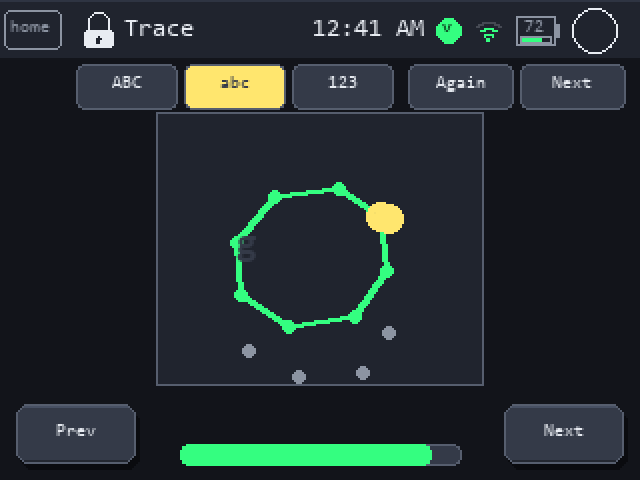
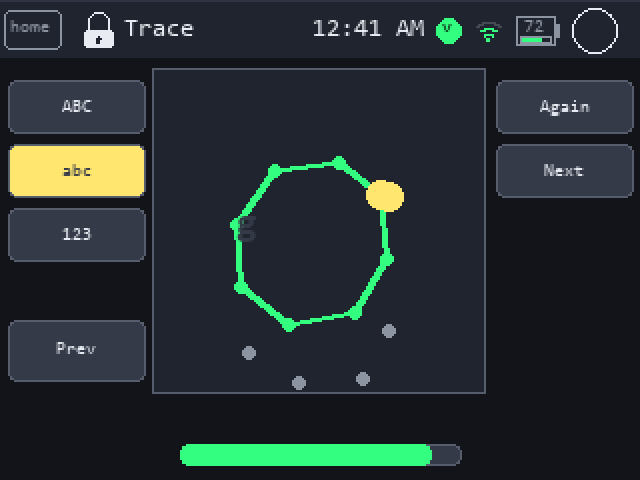
Regenerate the Trace mock-ups for the moved controls
gen_screens.py keeps its own copy of each screen's layout in Python, so
moving the buttons in TraceGame.cpp did not move them here -- the
generator ran happily and produced the same two images it always had, of
a screen that no longer exists. That is the failure CLAUDE.md calls worse
than a missing mock-up, and it is silent: nothing in the build or the
checkers notices.

Both Trace stills now show the side columns, and the canvas is drawn at
its real 164x160 rather than the old 160x132. The lowercase glyph art is
rescaled to the taller canvas with it -- the first pass moved only the
watermark, which left the 'g' sitting in the top two thirds of a box it
no longer filled.

The sparse dots down the descender are correct rather than unfinished:
the game draws an unclaimed stroke as faint waypoints, and only the
stroke being traced gets a line.

Both PNGs were looked at, which is the only way this kind of drift gets
caught.

diff --git a/tools/gen_screens.py b/tools/gen_screens.py
@@ -329,15 +329,24 @@ def statemaps():
 
 def trace():
     im, d = blank(); topbar(d, "Trace")
-    for label, x, w, col in [["ABC", 38, 50, WARN], ["abc", 92, 50, PANEL], ["123", 146, 50, PANEL],
-                             ["Again", 204, 52, PANEL], ["Next", 260, 52, PANEL]]:
-        d.rounded_rectangle([x, 32, x + w, 54], 4, fill=col, outline=OUTLINE)
-        d.text((x + w / 2 - d.textlength(label, font=F1) / 2, 37),
+    # Controls live in side columns, NOT above or below the canvas: a child
+    # tracing the top or bottom of a letter used to run a finger off the edge
+    # into them and switch alphabet mid-stroke. Keep in step with the rects in
+    # src/games/TraceGame.cpp.
+    for label, y, col in [["ABC", 40, WARN], ["abc", 72, PANEL], ["123", 104, PANEL]]:
+        d.rounded_rectangle([4, y, 72, y + 26], 4, fill=col, outline=OUTLINE)
+        d.text((38 - d.textlength(label, font=F1) / 2, y + 9),
                label, font=F1, fill=PANEL if col == WARN else TEXT)
-    d.rectangle([78, 56, 241, 192], fill=SURFACE, outline=OUTLINE)
+    for label, y in [["Again", 40], ["Next", 72]]:
+        d.rounded_rectangle([248, y, 316, y + 26], 4, fill=PANEL, outline=OUTLINE)
+        d.text((282 - d.textlength(label, font=F1) / 2, y + 9), label, font=F1, fill=TEXT)
+    d.rounded_rectangle([4, 160, 72, 190], 4, fill=PANEL, outline=OUTLINE)
+    d.text((38 - d.textlength("Prev", font=F1) / 2, 170), "Prev", font=F1, fill=TEXT)
+    # Canvas: DRAW_X 78, DRAW_Y 36, DRAW_W 164, DRAW_H 160
+    d.rectangle([76, 34, 242, 196], fill=SURFACE, outline=OUTLINE)
     # Show uppercase 'A' with waypoints - first stroke partially traced, second stroke next
     # First stroke: apex to left, already completed
-    apex, left, bar = (160, 64), (96, 190), (160, 137)
+    apex, left, bar = (160, 45), (96, 194), (160, 131)
     for t in range(0, 11):
         x = apex[0] + (left[0] - apex[0]) * t / 10
         y = apex[1] + (left[1] - apex[1]) * t / 10
@@ -347,7 +356,7 @@ def trace():
     d.ellipse([apex[0] - 7, apex[1] - 7, apex[0] + 7, apex[1] + 7], fill=WARN)
     d.text((apex[0] - 3, apex[1] - 4), "1", font=F1, fill=PANEL)
     # Second stroke: right side, with dots showing waypoints, pulsing on first unclaimed
-    right = (224, 190)
+    right = (224, 194)
     for t in range(0, 11):
         x = apex[0] + (right[0] - apex[0]) * t / 10
         y = apex[1] + (right[1] - apex[1]) * t / 10
@@ -358,60 +367,63 @@ def trace():
             # Unclaimed dots
             d.ellipse([x - 3, y - 3, x + 3, y + 3], fill=MUTED)
     # Bar stroke dots
-    bar_l, bar_r = (124, 137), (196, 137)
+    bar_l, bar_r = (124, 131), (196, 131)
     for t in range(0, 11):
         x = bar_l[0] + (bar_r[0] - bar_l[0]) * t / 10
-        d.ellipse([x - 2, 141, x + 2, 145], fill=MUTED)
+        d.ellipse([x - 2, 135, x + 2, 139], fill=MUTED)
     # Watermark letter
-    d.text((110, 116), "A", font=F4, fill=PANEL)
+    d.text((110, 107), "A", font=F4, fill=PANEL)
     # Progress bar
     bar_x, bar_y = 90, 222
     d.rounded_rectangle([bar_x, bar_y, 230, bar_y + 10], 4, fill=PANEL, outline=OUTLINE)
     d.rounded_rectangle([bar_x, bar_y, 130, bar_y + 10], 4, fill=SUCCESS)
-    # Prev/Next buttons
-    button(d, (8, 202, 60, 30), "Prev", f=F1)
-    button(d, (252, 202, 60, 30), "Next", f=F1)
     return im
 
 
 def trace_lower():
     im, d = blank(); topbar(d, "Trace")
-    for label, x, w, col in [["ABC", 38, 50, PANEL], ["abc", 92, 50, WARN], ["123", 146, 50, PANEL],
-                             ["Again", 204, 52, PANEL], ["Next", 260, 52, PANEL]]:
-        d.rounded_rectangle([x, 32, x + w, 54], 4, fill=col, outline=OUTLINE)
-        d.text((x + w / 2 - d.textlength(label, font=F1) / 2, 37),
+    # Controls live in side columns, NOT above or below the canvas: a child
+    # tracing the top or bottom of a letter used to run a finger off the edge
+    # into them and switch alphabet mid-stroke. Keep in step with the rects in
+    # src/games/TraceGame.cpp.
+    for label, y, col in [["ABC", 40, PANEL], ["abc", 72, WARN], ["123", 104, PANEL]]:
+        d.rounded_rectangle([4, y, 72, y + 26], 4, fill=col, outline=OUTLINE)
+        d.text((38 - d.textlength(label, font=F1) / 2, y + 9),
                label, font=F1, fill=PANEL if col == WARN else TEXT)
-    d.rectangle([78, 56, 241, 192], fill=SURFACE, outline=OUTLINE)
+    for label, y in [["Again", 40], ["Next", 72]]:
+        d.rounded_rectangle([248, y, 316, y + 26], 4, fill=PANEL, outline=OUTLINE)
+        d.text((282 - d.textlength(label, font=F1) / 2, y + 9), label, font=F1, fill=TEXT)
+    d.rounded_rectangle([4, 160, 72, 190], 4, fill=PANEL, outline=OUTLINE)
+    d.text((38 - d.textlength("Prev", font=F1) / 2, 170), "Prev", font=F1, fill=TEXT)
+    # Canvas: DRAW_X 78, DRAW_Y 36, DRAW_W 164, DRAW_H 160
+    d.rectangle([76, 34, 242, 196], fill=SURFACE, outline=OUTLINE)
     # Show lowercase 'g' with descender - two strokes
     # First stroke: main bowl, completed
-    pts_main = [(190, 108), (169, 94), (137, 98), (118, 121), (120, 147),
-                (144, 163), (177, 158), (193, 135), (190, 108)]
+    pts_main = [(190, 97), (169, 81), (137, 85), (118, 112), (120, 143),
+                (144, 162), (177, 156), (193, 129), (190, 97)]
     for pt in pts_main:
         d.ellipse([pt[0] - 3, pt[1] - 3, pt[0] + 3, pt[1] + 3], fill=SUCCESS)
     # Draw connecting lines for first stroke
     for i in range(len(pts_main) - 1):
         d.line([pts_main[i], pts_main[i+1]], fill=SUCCESS, width=3)
     # Badge on first point
-    d.ellipse([190 - 7, 108 - 7, 190 + 7, 108 + 7], fill=WARN)
-    d.text((187, 105), "1", font=F1, fill=PANEL)
+    d.ellipse([190 - 7, 97 - 7, 190 + 7, 97 + 7], fill=WARN)
+    d.text((187, 94), "1", font=F1, fill=PANEL)
     # Second stroke: descender, with dots
-    d.ellipse([194 - 7, 109 - 7, 194 + 7, 109 + 7], fill=WARN)
-    d.text((191, 106), "2", font=F1, fill=PANEL)
-    descender_pts = [(194, 109), (194, 166), (181, 186), (149, 188), (124, 175)]
+    d.ellipse([194 - 7, 98 - 7, 194 + 7, 98 + 7], fill=WARN)
+    d.text((191, 95), "2", font=F1, fill=PANEL)
+    descender_pts = [(194, 98), (194, 165), (181, 189), (149, 191), (124, 176)]
     for i, pt in enumerate(descender_pts):
         if i == 0:
             d.ellipse([pt[0] - 6, pt[1] - 6, pt[0] + 6, pt[1] + 6], fill=WARN)
         else:
             d.ellipse([pt[0] - 3, pt[1] - 3, pt[0] + 3, pt[1] + 3], fill=MUTED)
     # Watermark
-    d.text((118, 112), "g", font=F4, fill=PANEL)
+    d.text((118, 102), "g", font=F4, fill=PANEL)
     # Progress bar (90% full)
     bar_x, bar_y = 90, 222
     d.rounded_rectangle([bar_x, bar_y, 230, bar_y + 10], 4, fill=PANEL, outline=OUTLINE)
     d.rounded_rectangle([bar_x, bar_y, 215, bar_y + 10], 4, fill=SUCCESS)
-    # Buttons
-    button(d, (8, 202, 60, 30), "Prev", f=F1)
-    button(d, (252, 202, 60, 30), "Next", f=F1)
     return im
 
 
